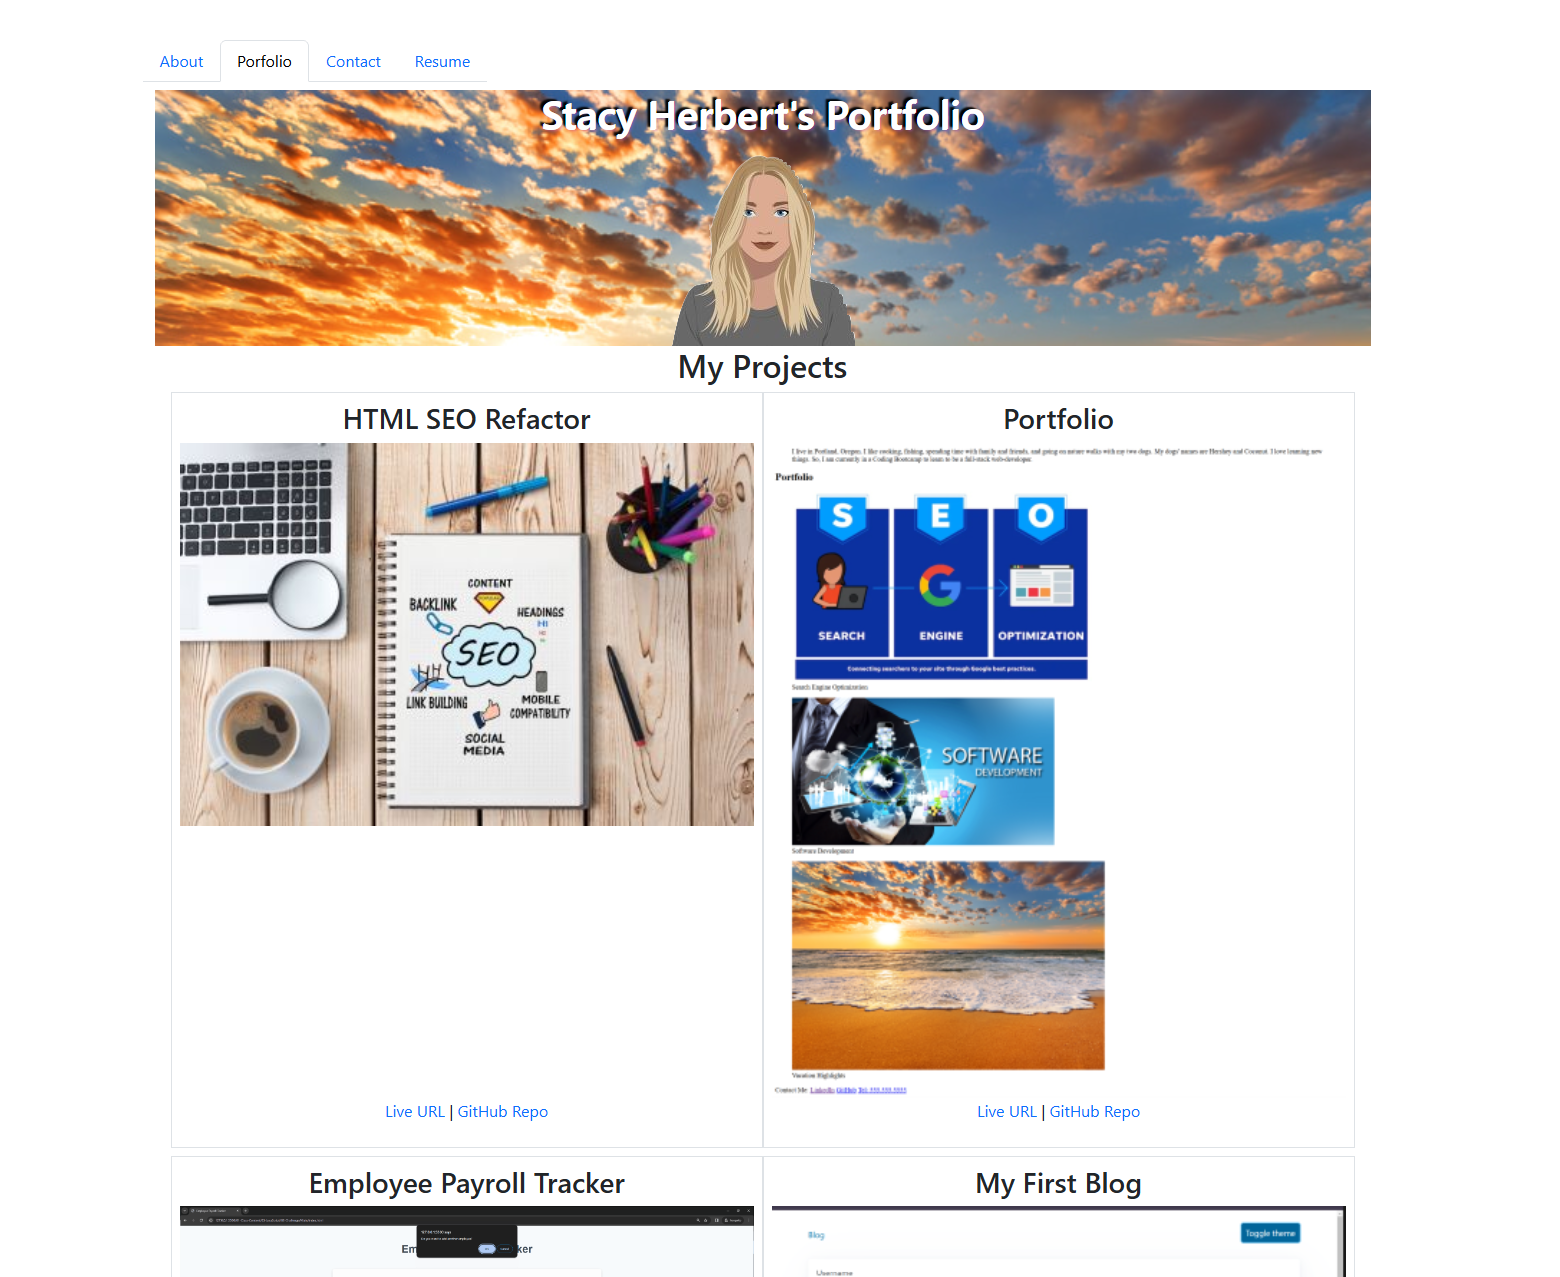
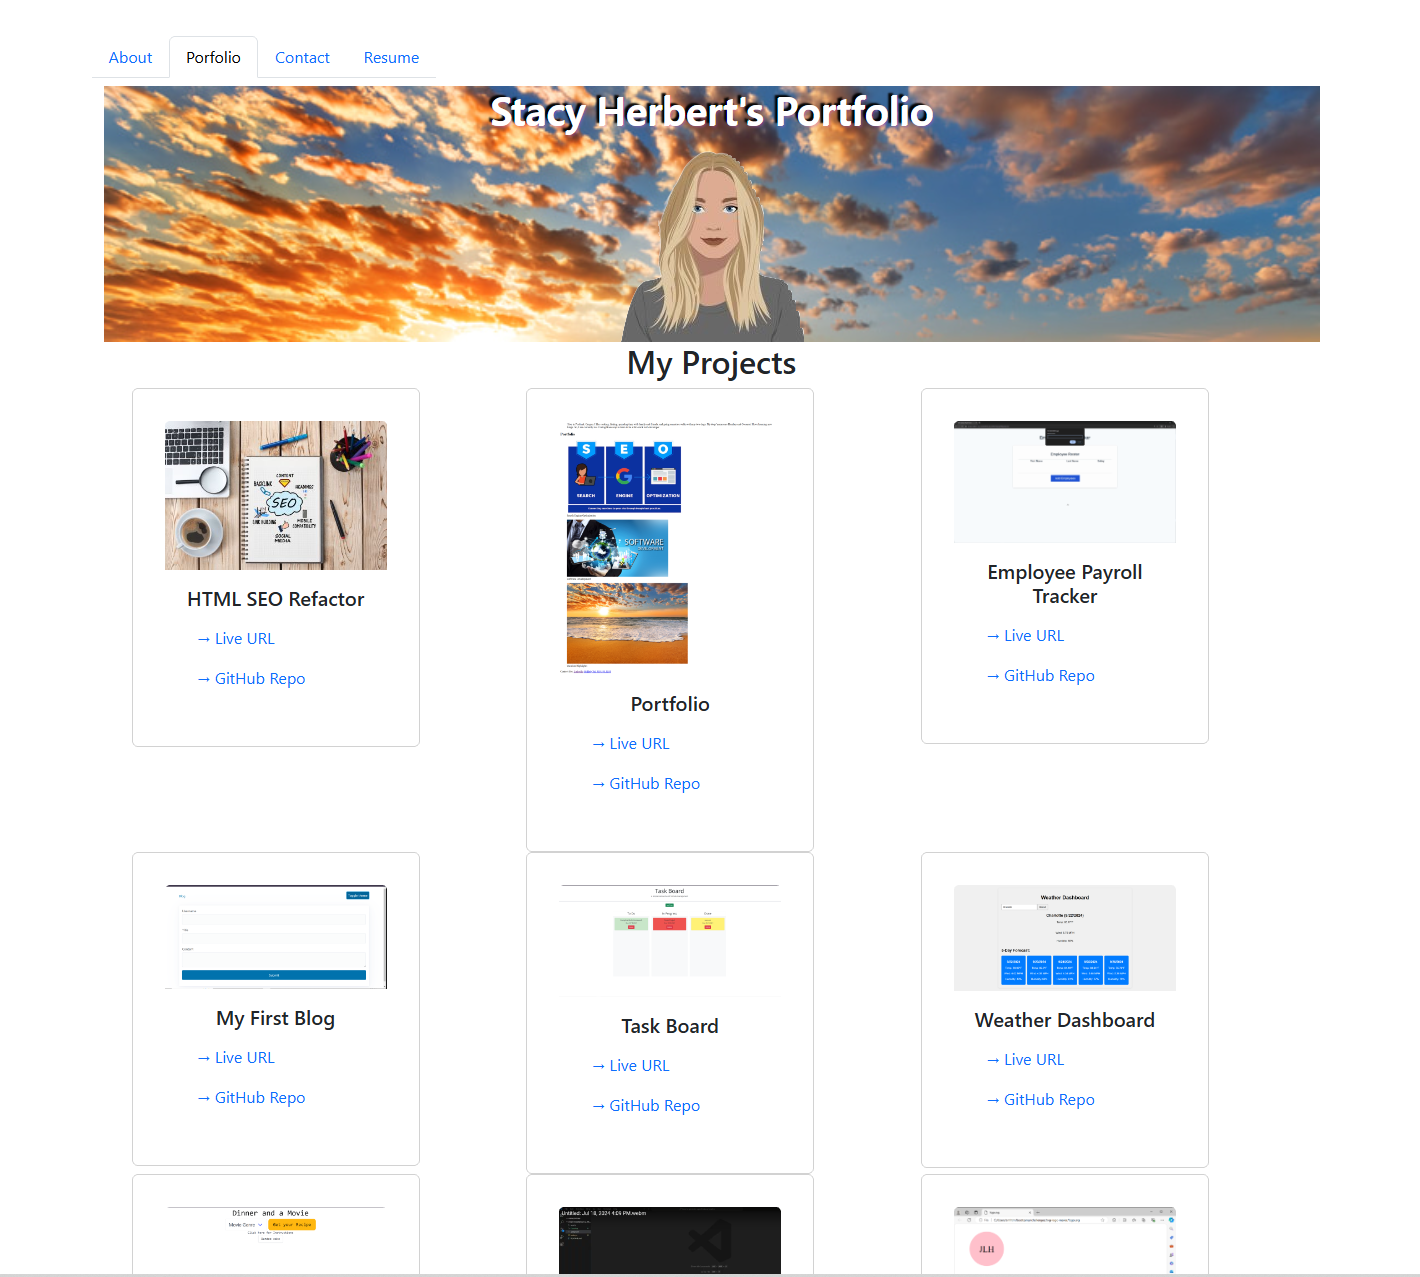
finalized styling and ReadMe

diff --git a/src/components/Project.jsx b/src/components/Project.jsx
@@ -1,32 +1,32 @@
+import Col from 'react-bootstrap/Col';
+//import Button from 'react-bootstrap/Button';
+import Card from 'react-bootstrap/Card';
+//import Placeholder from 'react-bootstrap/Placeholder';
+import Nav from 'react-bootstrap/Nav'
 
-const ProjectList = (props) => {
+const ProjectList = ({ title, image, liveURL, github }) => {
   return (
-       <div className="project-container">
-        <div className="row">
-          <div className="col">
-            <ul className="projects">
-              {props.projects.map(project => (
-                <li className="list-group" key={project.id}>
-                  <div className="project-title">
-                    title: {project.title}
-                    image: {project.image}
-                  </div>
-                  <div className="link-group">
-                    liveURL: {project.liveURL}
-                    
-                    github: {project.github}
-                  </div>
-                </li>
-              ))}
-            </ul>
+    
+        <Col>
+          <div className="d flex justify-content-around">
+            <Card style={{ width: '18rem '}}>
+              <Card.Img variant="top" src={image} alt={`${title} Screenshot`} />
+              <Card.Body>
+                <Card.Title>{title}</Card.Title>         
+                  <Nav className="project-links">
+                    <Nav.Item>                      
+                    <Nav.Link href={liveURL} target="_blank" rel="noopener noreferrer">&#8594; Live URL</Nav.Link>
+                    </Nav.Item>                                       
+                    <Nav.Item>
+                    <Nav.Link href={github} target="_blank" rel="noopener noreferrer">&#8594; GitHub Repo</Nav.Link>
+                    </Nav.Item>
+                  </Nav>
+              </Card.Body>
+            </Card>
           </div>
-        </div>
-       </div>
+        </Col>        
+      
   );
-};
+}
 
 export default ProjectList
-
-
-
-  

diff --git a/src/pages/Portfolio.jsx b/src/pages/Portfolio.jsx
@@ -1,3 +1,5 @@
+import Container from 'react-bootstrap/Container';
+import Row from 'react-bootstrap/Row';
 import ProjectList from '../components/Project';
 import SEO from '../assets/images/SEO.jpg';
 import PHTML from '../assets/images/PHTML.png';
@@ -134,21 +136,21 @@ export default function Portfolio() {
   ];
 
   return (
-    <div className="container">
-      <h2>My Projects</h2>
-      <div className="row">
+    <Container fluid='md'>
+      <Row className="justify-content-md-center">
+        <h2>My Projects</h2>
         {projects.map(project => (
           <ProjectList
             key={project.id}
             title={project.title}
             image={project.image}
-            liveLink={project.liveURL}
-            githubLink={project.github}
+            liveURL={project.liveURL}
+            github={project.github}
           />
         )
         )}
-      </div>
-    </div>
+      </Row>
+    </Container>
   );
 };
 

diff --git a/src/App.jsx b/src/App.jsx
@@ -1,6 +1,5 @@
 // Bringing in the required import from 'react-router-dom'
 import './App.css'
-import './_variables.scss'
 import { Outlet } from 'react-router-dom';
 import Nav from './components/Nav';
 import Header from './components/Header';
